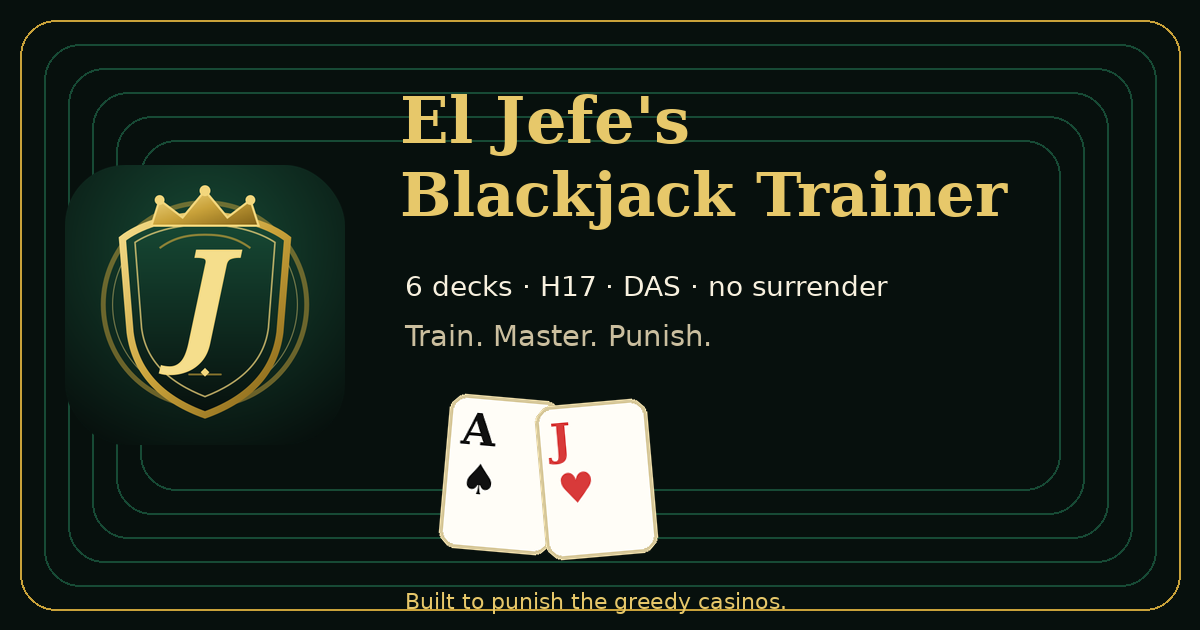
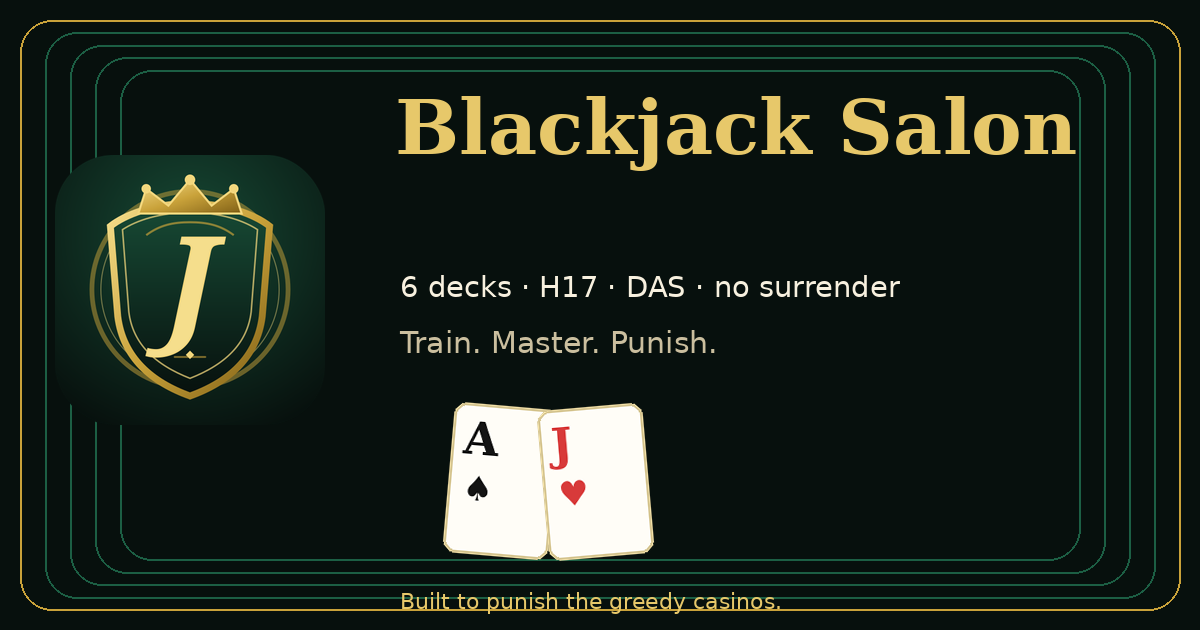
Add files via upload

diff --git a/index.html b/index.html
@@ -7,19 +7,19 @@
 <meta content="#07100d" name="theme-color"/>
 <meta content="yes" name="apple-mobile-web-app-capable"/>
 <meta content="default" name="apple-mobile-web-app-status-bar-style"/>
-<meta content="El Jefe Blackjack" name="apple-mobile-web-app-title"/>
-<title>El Jefe's Blackjack Trainer</title>
+<meta content="Blackjack Salon" name="apple-mobile-web-app-title"/>
+<title>Casa del Jefe — Blackjack Salon</title>
 <meta content="Blackjack strategy training, complete lookup tables, session mistake review, and the El Jefe Challenge." name="description"/>
 <meta content="website" property="og:type"/>
-<meta content="El Jefe's Blackjack Trainer" property="og:title"/>
+<meta content="Casa del Jefe — Blackjack Salon" property="og:title"/>
 <meta content="Blackjack strategy training, complete lookup tables, session mistake review, and the El Jefe Challenge." property="og:description"/>
 <meta content="https://jliese916.github.io/BlackJackTrainer/" property="og:url"/>
 <meta content="https://jliese916.github.io/BlackJackTrainer/og-blackjack.png" property="og:image"/>
 <meta content="1200" property="og:image:width"/>
 <meta content="630" property="og:image:height"/>
-<meta content="El Jefe's Blackjack Trainer — Casa del Jefe crest" property="og:image:alt"/>
+<meta content="Casa del Jefe Blackjack Salon trainer" property="og:image:alt"/>
 <meta content="summary_large_image" name="twitter:card"/>
-<meta content="El Jefe's Blackjack Trainer" name="twitter:title"/>
+<meta content="Casa del Jefe — Blackjack Salon" name="twitter:title"/>
 <meta content="Blackjack strategy training, complete lookup tables, session mistake review, and the El Jefe Challenge." name="twitter:description"/>
 <meta content="https://jliese916.github.io/BlackJackTrainer/og-blackjack.png" name="twitter:image"/>
 <link href="./manifest.webmanifest" rel="manifest"/>
@@ -37,7 +37,7 @@
 <div class="castle-hall">
 <div aria-hidden="true" class="hall-crenels"><i></i><i></i><i></i><i></i><i></i><i></i><i></i></div>
 <img alt="" aria-hidden="true" class="masthead-crest" src="./jefe-crest.svg"/><div class="castle-kicker">Casa del Jefe</div>
-<h1>El Jefe's Blackjack Trainer</h1>
+<h1>Blackjack Salon</h1>
 <p class="rule-summary">6 decks · dealer hits soft 17 · double after split · no surrender · blackjack pays 6:5</p>
 </div>
 <div aria-hidden="true" class="castle-tower tower-right">

diff --git a/styles.css b/styles.css
@@ -1117,3 +1117,44 @@ footer{color:var(--casa-muted)}
   .action-grid{width:98%!important;gap:5px 6px!important}
   .action-grid .action-button{font-size:.72rem!important;padding-inline:3px!important}
 }
+
+
+/* Version 18: center Play cards and controls within the full felt. */
+#playPanel .table-layout{
+  display:block!important;
+  position:relative!important;
+  min-height:390px!important;
+  width:100%!important;
+}
+#playPanel .table-left-rail{
+  position:absolute!important;
+  left:0!important;
+  top:0!important;
+  width:82px!important;
+  z-index:4!important;
+  display:flex!important;
+  justify-content:center!important;
+}
+#playPanel .table-main{
+  grid-column:auto!important;
+  width:min(570px,100%)!important;
+  min-height:390px!important;
+  margin:0 auto!important;
+  padding:0 8px!important;
+}
+#playPanel .dealer-zone,
+#playPanel .player-hands,
+#playPanel .play-message,
+#playPanel .play-actions-grid,
+#playPanel .deal-button{
+  margin-left:auto!important;
+  margin-right:auto!important;
+}
+@media(max-width:480px){
+  #playPanel .table-left-rail{left:-3px!important;width:54px!important}
+  #playPanel .table-main{width:100%!important;padding-inline:4px!important}
+}
+@media(max-width:360px){
+  #playPanel .table-left-rail{left:-6px!important;width:50px!important}
+  #playPanel .table-main{padding-inline:2px!important}
+}

diff --git a/service-worker.js b/service-worker.js
@@ -1,4 +1,4 @@
-const CACHE_NAME = "el-jefe-blackjack-v17";
+const CACHE_NAME = "el-jefe-blackjack-v18";
 const APP_SHELL = [
   "./",
   "./index.html",

diff --git a/README.md b/README.md
@@ -1,4 +1,4 @@
-# El Jefe's Blackjack Trainer
+# Casa del Jefe — Blackjack Salon
 
 A mobile-friendly Progressive Web App built with plain HTML, CSS, and JavaScript.
 
@@ -84,3 +84,11 @@ Then open `http://localhost:8000`.
 - Uses the same centered two-by-two action grid in Play and Train on desktop and mobile.
 - Keeps Deal and New Hand centered below the action grid.
 - Service-worker cache: `el-jefe-blackjack-v17`.
+
+
+## Version 18 changes
+
+- Centers the dealer cards, player cards, action grid, and Deal button within the full Blackjack felt.
+- Keeps the compact six-deck shoe overlaid at the left without shifting the main play area.
+- Retains the fixed two-by-two Hit/Stand and Double/Split layout in Play and Train.
+- Service-worker cache: `el-jefe-blackjack-v18`.
